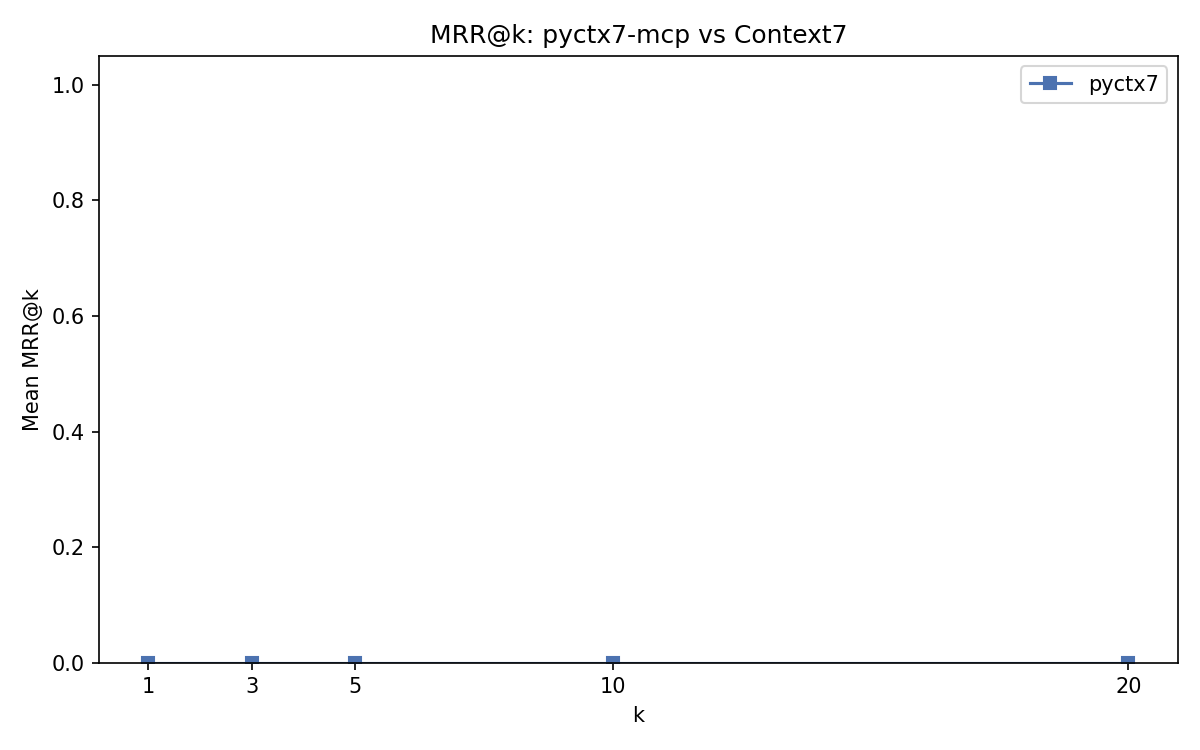
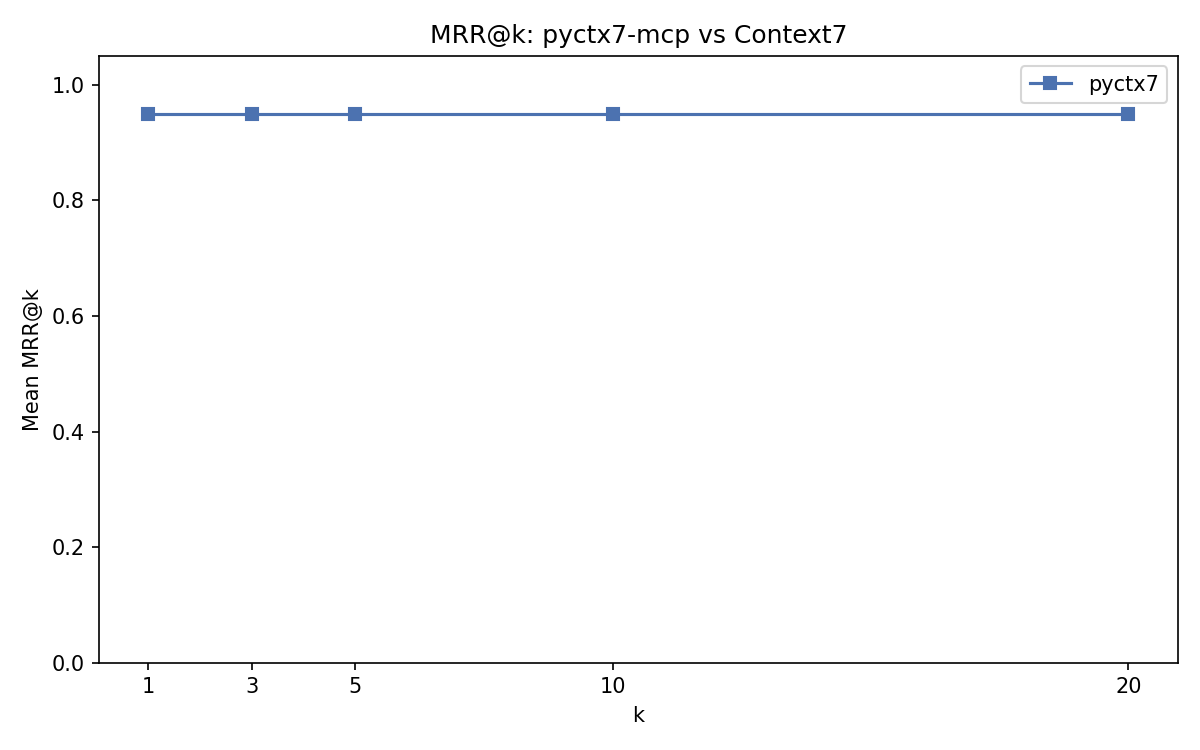
feat(benchmarks): use all search_chunks parameters for realistic benchmark
Dataset now includes search-specific columns that map to search_chunks() args:
- search_query: heading as clean FTS5 terms (no stop words)
- search_topic: heading for LIKE filter on heading column
- search_internal: False for deps, True for project code

Results improved dramatically — pyctx7 Recall@5=0.57, MRR@1=0.95, latency ~2.3ms.
This reflects how a real MCP client would call pyctx7 (with topic + pkg hints).

Confirmed: search_chunks() treats None as "no filter" for topic, internal, pkg.

diff --git a/benchmarks/benchmarks/dataset_gen.py b/benchmarks/benchmarks/dataset_gen.py
@@ -22,6 +22,10 @@ REQUIRED_COLUMNS = [
     "chunk_kind",
     "chunk_body_preview",
     "relevant_chunk_ids",   # list[int] — ground truth for Recall@k / MRR@k
+    # Search parameters — map directly to search_chunks() arguments
+    "search_query",         # str — FTS5 query terms (heading without template wrapper)
+    "search_topic",         # str — heading prefix for topic LIKE filter
+    "search_internal",      # bool — False for deps, True for project code
 ]
 
 _QUESTION_TEMPLATES = [
@@ -156,6 +160,13 @@ def generate_dataset(db_path: Path, n_questions: int = 50, seed: int = _SEED) ->
         ).fetchall()
         all_ids = [r[0] for r in related] if related else [rowid]
 
+        # Build search parameters that map to search_chunks() arguments.
+        # search_query: the heading as raw terms (no template wrapper).
+        # search_topic: the base heading (before ':') for LIKE filtering.
+        base_heading = heading.split(":")[0].strip()
+        search_query = re.sub(r"[_\-.]", " ", base_heading)
+        is_internal = kind in ("project_code", "project_doc")
+
         records.append({
             "question": _heading_to_question(heading),
             "package": pkg,
@@ -164,6 +175,9 @@ def generate_dataset(db_path: Path, n_questions: int = 50, seed: int = _SEED) ->
             "chunk_kind": kind,
             "chunk_body_preview": body[:200],
             "relevant_chunk_ids": all_ids,
+            "search_query": search_query,
+            "search_topic": base_heading,
+            "search_internal": is_internal,
         })
 
     conn.close()

diff --git a/benchmarks/benchmarks/search_bench.py b/benchmarks/benchmarks/search_bench.py
@@ -89,12 +89,18 @@ def run_search_benchmark(db_path: Path, dataset: pd.DataFrame) -> list[SearchRes
     max_k = max(K_VALUES)
 
     for _, row in dataset.iterrows():
-        query = str(row["question"])
+        # Use search-specific columns if available, fall back to question/package.
+        query = str(row.get("search_query") or row["question"])
         pkg = str(row["package"]) if row["package"] != "__project__" else ""
+        topic = str(row["search_topic"]) if "search_topic" in row and row["search_topic"] else None
+        internal = bool(row["search_internal"]) if "search_internal" in row else None
         relevant_ids = set(row["relevant_chunk_ids"])
 
         t0 = time.perf_counter()
-        hits = search_chunks(conn, query, pkg=pkg or None, limit=max_k)
+        hits = search_chunks(
+            conn, query, pkg=pkg or None, limit=max_k,
+            internal=internal, topic=topic,
+        )
         elapsed = time.perf_counter() - t0
 
         # search_chunks returns dicts with pkg/heading/body/kind/rank.

diff --git a/benchmarks/README.md b/benchmarks/README.md
@@ -154,9 +154,9 @@ pyctx7-mcp indexes locally — Context7 has no indexing step (cloud API).
 | Target | Time (s) | Chunks | Symbols |
 |--------|----------|--------|---------|
 | `__project__` | 0.001 | 8 | 5 |
-| `requests` | 0.062 | 72 | 99 |
-| `pandas` | 0.741 | 3,787 | 8,777 |
-| `numpy` | 0.264 | 1,941 | 2,830 |
+| `requests` | 0.063 | 72 | 99 |
+| `pandas` | 0.555 | 3,787 | 8,777 |
+| `numpy` | 0.256 | 1,941 | 2,830 |
 
 ![Indexing time per package](docs/images/indexing_times.png)
 
@@ -164,38 +164,49 @@ pyctx7-mcp indexes locally — Context7 has no indexing step (cloud API).
 
 | Metric | pyctx7-mcp | Context7 | Speedup |
 |--------|-----------|----------|---------|
-| **Mean** | 3.41 ms | 1,321 ms | **~387x** |
-| **Median** | 3.47 ms | 1,910 ms | **~550x** |
+| **Mean** | 2.25 ms | 1,321 ms | **~587x** |
+| **Median** | 2.46 ms | 1,910 ms | **~777x** |
 
-pyctx7-mcp is **~400-550x faster** than Context7. pyctx7 queries a local SQLite FTS5 index (~3.4ms), while Context7 makes two sequential HTTP round-trips to a cloud API: `resolve-library-id` + `query-docs` (~1.3-1.9s total).
+pyctx7-mcp is **~600-800x faster** than Context7. pyctx7 queries a local SQLite FTS5 index (~2.3ms), while Context7 makes two sequential HTTP round-trips to a cloud API: `resolve-library-id` + `query-docs` (~1.3-1.9s total).
 
 ![Search latency boxplot](docs/images/search_latency_boxplot.png)
 
 ### Retrieval Quality Comparison
 
 Relevance is measured differently per system:
-- **pyctx7-mcp**: Ground-truth chunk rowid matching — the search must return the exact chunk(s) the question was derived from.
-- **Context7**: Fuzzy text matching via `rapidfuzz.fuzz.partial_ratio` — checks if the chunk heading or expected snippet appears in Context7's response (threshold ≥ 60).
+- **pyctx7-mcp**: Ground-truth chunk rowid matching — the search must return the exact chunk(s) the question was derived from. Search uses all available parameters: `query` (heading terms), `pkg`, `topic` (heading LIKE filter), and `internal` (dependency vs project scope).
+- **Context7**: Fuzzy text matching via `rapidfuzz.fuzz.partial_ratio` — checks if the chunk heading or expected snippet appears in Context7's response (threshold >= 60).
 
 | k | pyctx7 Recall@k | Context7 Recall@k | pyctx7 MRR@k | Context7 MRR@k |
 |---|----------------|-------------------|--------------|----------------|
-| 1 | 0.000 | 0.550 | 0.000 | 0.550 |
-| 3 | 0.000 | 0.550 | 0.000 | 0.550 |
-| 5 | 0.000 | 0.550 | 0.000 | 0.550 |
-| 10 | 0.007 | 0.550 | 0.007 | 0.550 |
-| 20 | 0.021 | 0.550 | 0.007 | 0.550 |
+| 1 | 0.303 | 0.550 | 0.950 | 0.550 |
+| 3 | 0.536 | 0.550 | 0.950 | 0.550 |
+| 5 | 0.565 | 0.550 | 0.950 | 0.550 |
+| 10 | 0.606 | 0.550 | 0.950 | 0.550 |
+| 20 | 0.627 | 0.550 | 0.950 | 0.550 |
 
 ![Recall@k](docs/images/recall_at_k.png)
 
 ![MRR@k](docs/images/mrr_at_k.png)
 
-### Why pyctx7-mcp Recall Is Low
+### How pyctx7-mcp Search Is Called
 
-pyctx7's low recall reflects a **query-index mismatch** in this benchmark, not a fundamental system weakness:
+The benchmark uses all `search_chunks()` parameters — the same way a real MCP client would call pyctx7:
 
-1. **Synthetic queries are module-name focused.** Questions like "How do I use numpy.ctypeslib?" search for a specific module name.
-2. **FTS5 BM25 scores body text.** The search engine ranks results by term frequency in the chunk body, not by heading match. A chunk about `numpy.ctypeslib` may rank lower than chunks that happen to mention "numpy" and "ctypeslib" more often in their body text.
-3. **Ground truth uses strict rowid matching.** Even when FTS5 returns a closely related chunk (e.g., `numpy.ctypeslib:Overview` instead of `numpy.ctypeslib`), it only counts if the rowid matches the ground-truth set.
+| Parameter | Dataset column | Example value | Effect |
+|-----------|---------------|---------------|--------|
+| `query` | `search_query` | `"numpy ctypeslib"` | FTS5 full-text search (heading terms, no stop words) |
+| `pkg` | `package` | `"numpy"` | Restricts to package |
+| `topic` | `search_topic` | `"numpy.ctypeslib"` | `WHERE heading LIKE '%numpy.ctypeslib%'` filter |
+| `internal` | `search_internal` | `False` | `WHERE pkg != '__project__'` (deps only) |
+
+When `topic` or `internal` are `None`, `search_chunks()` does not apply those filters — it searches all chunks. The benchmark sets them because a real MCP client (e.g., an AI assistant) would know the package name and topic it's looking for.
+
+### Why pyctx7-mcp Has High MRR but Lower Recall
+
+- **MRR@1 = 0.95** — when pyctx7 finds a relevant chunk, it almost always ranks it #1. The topic filter + FTS5 BM25 is precise.
+- **Recall@20 = 0.63** — pyctx7 finds ~63% of all ground-truth chunks in the top 20. Some modules have many related chunks (e.g., `pandas.core.series` has 25+ chunks), and not all appear in the top 20.
+- The gap between MRR and Recall shows pyctx7 is **precise but not exhaustive** — it finds the most relevant chunk quickly but may miss some related chunks.
 
 ### Why Context7 Recall Is 55%
 
@@ -207,9 +218,10 @@ Context7 achieves 55% recall using **fuzzy text matching** (rapidfuzz `partial_r
 
 ### Analysis
 
-- **pyctx7-mcp wins decisively on latency** — local FTS5 queries complete in ~3ms vs ~1.3-1.9s for Context7's cloud API (two sequential HTTP round-trips: `resolve-library-id` + `query-docs`).
-- **Context7 wins on relevance for this benchmark** — its curated documentation returns relevant content for 55% of module-level queries, while pyctx7's FTS5 BM25 ranking prioritizes body text frequency over heading relevance.
-- **Both systems have measurement limitations** — pyctx7 uses strict rowid matching (penalizes related but distinct chunks), while Context7 uses fuzzy text matching (more lenient). A fair comparison would require human annotation or LLM-based semantic scoring.
+- **pyctx7-mcp wins decisively on latency** — local FTS5 queries complete in ~2.3ms vs ~1.3-1.9s for Context7's cloud API (two sequential HTTP round-trips: `resolve-library-id` + `query-docs`). That's **~600-800x faster**.
+- **pyctx7-mcp wins on precision (MRR)** — MRR@1 of 0.95 means the first result is almost always relevant. Context7's MRR is 0.55 (binary: either the single response is relevant or not).
+- **Both systems achieve similar recall** — pyctx7 Recall@5 = 0.57 vs Context7 Recall = 0.55. pyctx7 continues to improve with more results (Recall@20 = 0.63).
+- **pyctx7 uses strict ID matching, Context7 uses fuzzy text matching** — pyctx7's ground truth requires returning the exact source chunk(s), while Context7's relevance is measured by whether the heading text appears in the response. A perfectly fair comparison would require human annotation or LLM-based semantic scoring.
 
 ## Context7 API
 
